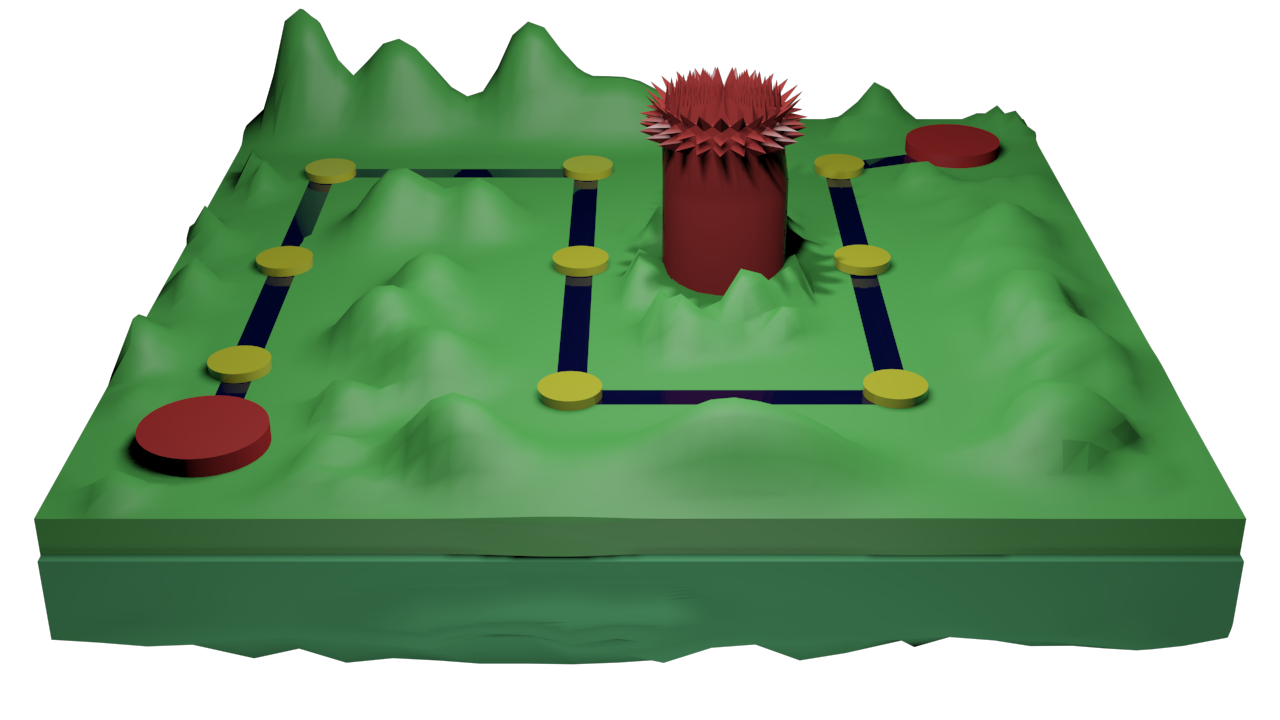
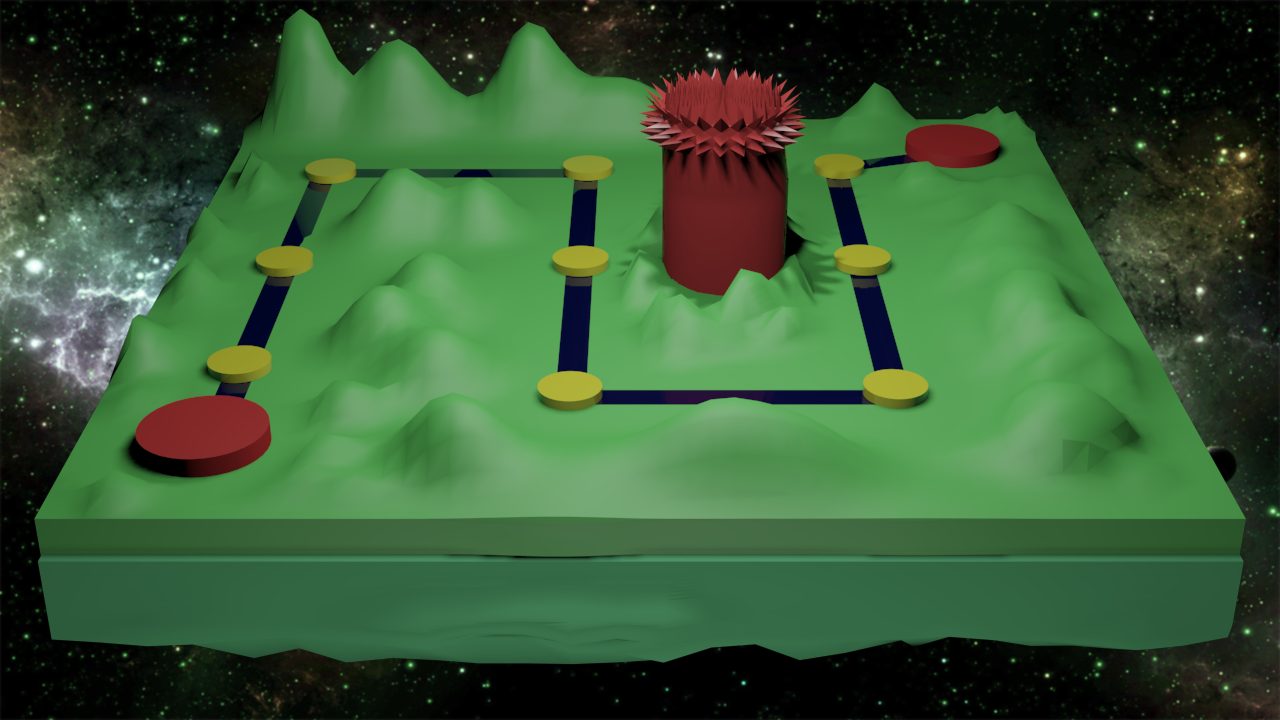
fixed game landing page, added background to worlds

diff --git a/sceneManagerTest/index.html b/sceneManagerTest/index.html
@@ -39,20 +39,19 @@ font-family: 'Combo', cursive
 		}
 
 		.playerinfo-div{
-			background-color: #000;
+			/*background-color: #000;*/
 			max-width: 100%;
-			min-height: 50px;
+			/*min-height: 50px;*/
 		}
 		.playerinfo-div h3{
 			margin-left: auto;
 			color: white;
 		}
 
-
-
 		.logo {
 			margin:auto;
 		}
+		/*
 		.logo img {
 			background: #563d7c;
 			display: block;
@@ -62,26 +61,19 @@ font-family: 'Combo', cursive
 	    margin-left: auto;
 	    margin-right: auto;
 			max-height: 250px;
-		}
+		}*/
 		canvas {
 			margin:auto;
-			border-style: solid;
-			border-width:thick;
-			border-color: black;
-			border-radius: 15px;
+			border: 5px solid #111;
+			-moz-box-shadow: 35px 35px 7px #999999;
+			-moz-border-bottom-right-radius: 15px;
+			-moz-border-radius:25px;
+			/*border-style: groove;
+			border-width:50px;
+			border-color: #d2e3ed;*/
+			/*border-radius: 15px;*/
 		}
-		.canvas-border{
-			/*the bh can be temp since the css doesn't work when resizing window after load*/
-			background-image: url('images/temp-bg.jpg');
-			/*background-color: black;*/
-			margin: auto;
-			width: 1280px;
-			height: 720px;
-			padding: 0px;
-			border-radius: 15px;
-			border-style: hidden;
-			position: relative;
-		}
+
 
 		text{
 			font-family: 'Overpass Mono', monospace;
@@ -92,9 +84,6 @@ font-family: 'Combo', cursive
 	<div class="playerinfo-div">
 		<h3 id="playername"></h3>
 	</div>
-	<div class="logo"> <div id="circle"> <img src="images/hydra.png"></img></div></div>
-	<div class="canvas-border">
-
-	</div>
+	<div class="logo"> <div id="circle"></div></div>
 </body>
 </html>

diff --git a/sceneManagerTest/playerinfo.js b/sceneManagerTest/playerinfo.js
@@ -10,7 +10,7 @@ function parseURLParams() {
         console.log("[debug]: Current URL =>"+url);
 
         //check to see if the registration part was bypassed. If so, then just printout a generic Guest message.
-        if(url == "http://localhost:3000//sceneManagerTest/index.html" || url == "https://hydranaut.unt.edu/sceneManagerTest/index.html"|| url == "http://hydranaut.unt.edu/sceneManagerTest/index.html"){
+        if(url == "http://localhost:3000//sceneManagerTest/index.html" || url == "https://hydranaut.unt.edu/sceneManagerTest/index.html"|| url == "http://hydranaut.unt.edu/sceneManagerTest/index.html" || url == "http://127.0.0.1:3000/sceneManagerTest/"){
           document.getElementById('playername').innerHTML = "Welcome, Guest (Not logged in)";
           return;
         }
